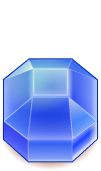
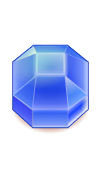
Resized the gem sprites so they aren't so large; adjusted rendering offsets and added a call to the collectible render method in the game engine code.

diff --git a/js/app.js b/js/app.js
@@ -305,7 +305,7 @@ Collectible.inheritsFrom(Item);
 Collectible.prototype.reset = function() {
     this.sprite = this.collectibleSprites[Math.floor(Math.random() * this.collectibleSprites.length)];
     this.x = Math.floor(Math.random() * 5) * 101;
-    this.y = -25 + (((Math.floor(Math.random() * 3) + 1) * 80));
+    this.y = (((Math.floor(Math.random() * 3) + 1) * 83));
 };
 
 /**

diff --git a/js/engine.js b/js/engine.js
@@ -166,6 +166,9 @@ var Engine = (function(global) {
      * on your enemy and player entities within app.js
      */
     function renderEntities() {
+
+        collectible.render();
+
         /* Loop through all of the objects within the allEnemies array and call
          * the render function you have defined.
          */
